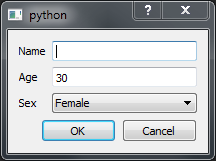
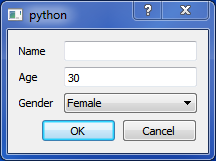
Minor update on README file

diff --git a/README.md b/README.md
@@ -8,14 +8,14 @@ Rapidly build GUI with Python and Qt
 The above code construct a dialog, waits for the user input and return window contents in a `namedtuple`.
 
 ```python
-from PySide.QtGui import QApplication
+from PyQt4.QtGui import QApplication
 from simplewidgets.fields import LineTextField, IntField, ChoiceField
-from simplewidgets.simple_widget import SimpleDialog
+from simplewidgets.simplewidget import SimpleDialog
 
 class DemoDialog(SimpleDialog):
     name = LineTextField(label="Name")
     age = IntField(30, label="Age")
-    sex = ChoiceField(["Male", "Female"], initial="Female", label="Sex")
+    gender = ChoiceField(["Male", "Female"], initial="Female", label="Gender")
 
 app = QApplication([])
 demo = DemoDialog()
@@ -26,7 +26,7 @@ if demo.exec_accepted():
 ![Simple Example](doc/simple-example.png)
 
     print data
-    >> SimpleData(name=u'', age=30, sex='Female')
+    >> SimpleData(name=u'', age=30, gender='Female')
 
 
 [![Build Status](https://travis-ci.org/itghisi/simplewidgets.svg?branch=master)](https://travis-ci.org/itghisi/simplewidgets)
